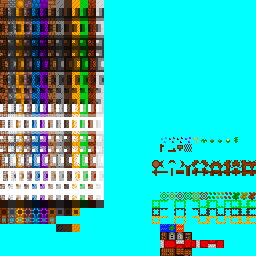
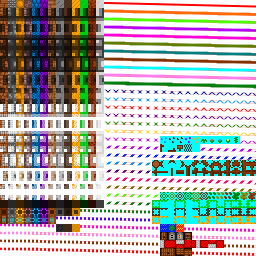
implementing tile variant support - not done

diff --git a/core/include/world/tile.h b/core/include/world/tile.h
@@ -5,68 +5,49 @@
 #include <stdint.h>
 #include <defines.h>
 
-void init_tile(Tile *tile, enum Tile_Kind kind_of_tile,
+void init_tile(Tile *tile, 
+        enum Tile_Kind kind_of_tile,
+        enum Tile_Cover_Kind kind_of_tile_cover,
         uint8_t flags);
 
-void init_tile_structure(Tile *tile, 
-        enum Tile_Kind kind_of_tile,
-        enum Tile_Structure_Kind kind_of_tile_structure);
+static void inline set_tile__stair_direction(
+        Tile *tile,
+        uint8_t direction) {
+    tile->flags &= ~TILE_FLAGS__MASK_STAIR_VALUE;
+    tile->flags |=
+        direction & TILE_FLAGS__MASK_STAIR_VALUE
+        ;
+}
 
 static bool inline is_tile__passable(Tile *tile) {
     return (bool)(tile->flags & TILE_FLAGS__BIT_IS_PASSABLE);
 }
 static void inline set_tile__is_passable(Tile *tile, bool value) {
-    tile->flags &= (-1) ^ (value << TILE_FLAGS__BIT_SHIFT_IS_PASSABLE);
+    tile->flags |= (-1) & (value << TILE_FLAGS__BIT_SHIFT_IS_PASSABLE);
 }
 static bool inline is_tile__stairs(Tile *tile) {
-    return (bool)(tile->flags & TILE_FLAGS__BIT_IS_STAIR);
+    return (bool)((tile->flags & TILE_FLAGS__BIT_IS_STAIR));
 }
 static void inline set_tile__is_stairs(Tile *tile, bool value) {
-    tile->flags &= (-1) ^ (value << TILE_FLAGS__BIT_SHIFT_IS_STAIR);
+    tile->flags |= (-1) & (value << TILE_FLAGS__BIT_SHIFT_IS_STAIR);
 }
 static bool inline is_tile__sight_blocking(Tile *tile) {
     return (bool)(tile->flags & TILE_FLAGS__BIT_IS_SIGHT_BLOCKING); 
 }
 static void inline set_tile__sight_blocking(Tile *tile, bool value) {
-    tile->flags &= (-1) ^ (value << TILE_FLAGS__BIT_SHIFT_IS_SIGHT_BLOCKING);
+    tile->flags |= (-1) & (value << TILE_FLAGS__BIT_SHIFT_IS_SIGHT_BLOCKING);
 }
 static bool inline is_tile__inverted_stairs(Tile *tile) {
     return (bool)(tile->flags & TILE_FLAGS__BIT_INVERTED_STAIR);
 }
 static void inline set_tile__inverted_stairs(Tile *tile, bool value) {
-    tile->flags &= (-1) ^ (value << TILE_FLAGS__BIT_SHIFT_INVERTED_STAIR);
+    tile->flags |= (-1) & (value << TILE_FLAGS__BIT_SHIFT_INVERTED_STAIR);
 }
 static bool inline is_tile__up_or_down_stairs(Tile *tile) {
     return (bool)(tile->flags & TILE_FLAGS__BIT_IS_STAIR_UP_OR_DOWN);
 }
 static void inline set_tile__up_or_down_stairs(Tile *tile, bool value) {
-    tile->flags &= (-1) ^ (value << TILE_FLAGS__BIT_SHIFT_IS_STAIR_UP_OR_DOWN);
-}
-
-static bool inline is_tile_structure_kind__passable(
-        enum Tile_Structure_Kind kind_of_tile_structure) {
-    switch (kind_of_tile_structure) {
-        default:
-            return true;
-        case Tile_Structure_Kind__Wall:
-        case Tile_Structure_Kind__Window:
-            return false;
-    }
-}
-
-static bool inline is_tile_structure_kind__sight_blocking(
-        enum Tile_Structure_Kind kind_of_tile_structure) {
-    return kind_of_tile_structure == Tile_Structure_Kind__Wall;
-}
-
-static bool inline is_tile_kind__ascending(
-        enum Tile_Structure_Kind kind_of_tile_structure) {
-    return kind_of_tile_structure == Tile_Structure_Kind__Stair_Ascending;
-}
-
-static bool inline is_tile_kind__descending(
-        enum Tile_Structure_Kind kind_of_tile_structure) {
-    return kind_of_tile_structure == Tile_Structure_Kind__Stair_Descending;
+    tile->flags |= (-1) & (value << TILE_FLAGS__BIT_SHIFT_IS_STAIR_UP_OR_DOWN);
 }
 
 uint32_t get_tile_texture_sheet_index(Tile *tile);

diff --git a/core/source/world/tile.c b/core/source/world/tile.c
@@ -1,30 +1,15 @@
 #include <world/tile.h>
 #include <stdbool.h>
 
-void init_tile(Tile *tile, enum Tile_Kind kind_of_tile,
+void init_tile(Tile *tile, 
+        enum Tile_Kind kind_of_tile,
+        enum Tile_Cover_Kind kind_of_tile_cover,
         uint8_t flags) {
     tile->flags = flags;
     tile->the_kind_of_tile__this_tile_is =
         kind_of_tile;
     tile->the_kind_of_tile_cover__this_tile_has =
-        Tile_Cover_Kind__None;
-}
-
-void init_tile_structure(Tile *tile, 
-        enum Tile_Kind kind_of_tile,
-        enum Tile_Structure_Kind kind_of_tile_structure) {
-    init_tile(tile, kind_of_tile, TILE_FLAGS__NONE);
-    set_tile__is_passable(
-            tile, 
-            is_tile_structure_kind__passable(
-                kind_of_tile_structure)
-            );
-    set_tile__sight_blocking(
-            tile, 
-            is_tile_structure_kind__sight_blocking(
-                kind_of_tile_structure)
-            );
-    //TODO: finish this
+        kind_of_tile_cover;
 }
 
 uint32_t get_tile_texture_sheet_index(Tile *tile) {
@@ -87,12 +72,42 @@ tile_structure:
             index = TILE_SHEET_INDEX__GRASS;
 			break;
     }
-    switch (tile->the_kind_of_tile_structure__this_tile_is) {
-        default:
-        case Tile_Structure_Kind__Floor:
-            return index;
-        case Tile_Structure_Kind__Stair_Ascending:
-            return 0;
+    if (is_tile__stairs(tile)) {
+        // This is based on how we layout the tile sheet.
+        // If we're descending, then we don't need an
+        // offset.
+        // If we are ascending, we need to offset such that
+        // we pass the rows which include the descending
+        // tiles. This also included the inverted descending
+        // tile variants (example: North-East normal, North-East inverted.)
+        int32_t offset = 0;
+        //     (is_tile__up_or_down_stairs(tile))
+        //     ? TILE_SHEET_ELEMENT_WIDTH
+        //         * (TILE_STAIR_DIRECTION_COUNT
+        //         + TILE_STAIR_DIRECTION_COUNT / 2)
+        //     : 0
+        //     ;
+        if (is_tile__inverted_stairs(tile)) {
+            // offset +=
+            //     TILE_SHEET_ELEMENT_WIDTH
+            //     * TILE_STAIR_DIRECTION_COUNT
+            //     ;
+            // offset +=
+            //     (tile->flags
+            //      & TILE_FLAGS__MASK_STAIR_VALUE) / 2
+            //     * TILE_SHEET_ELEMENT_WIDTH
+            //     ;
+        } else {
+            offset += 128;
+            // offset +=
+            //     ((tile->flags
+            //      & TILE_FLAGS__MASK_STAIR_VALUE) + 1)
+            //     * TILE_SHEET_ELEMENT_WIDTH
+            //     ;
+        }
+
+        return index + offset;
     }
+    return index;
 }
 

diff --git a/core/include/defines.h b/core/include/defines.h
@@ -363,6 +363,8 @@ typedef void (*m_unload_scene)(Scene *this_scene, Game* game);
 #define TILE_FLAGS__BIT_SHIFT_IS_SIGHT_BLOCKING 6
 #define TILE_FLAGS__BIT_SHIFT_IS_PASSABLE 7
 
+#define TILE_STAIR_DIRECTION_COUNT 8
+
 #define TILE_FLAGS__MASK_STAIR_VALUE ((1<<\
             TILE_FLAGS__BIT_SHIFT_INVERTED_STAIR) - 1)
 #define TILE_FLAGS__BIT_INVERTED_STAIR (1<<\
@@ -377,6 +379,8 @@ typedef void (*m_unload_scene)(Scene *this_scene, Game* game);
         TILE_FLAGS__BIT_SHIFT_IS_PASSABLE)
 
 #define TILE_FLAGS__NONE 0
+
+#define TILE_SHEET_ELEMENT_WIDTH 32
 
 #define TILE_SHEET_INDEX__WOOD 0
 #define TILE_SHEET_INDEX__STONE_BRICK 1
@@ -422,15 +426,6 @@ enum Tile_Cover_Kind {
     Tile_Cover_Kind__Leaf_Clutter,
 };
 
-enum Tile_Structure_Kind {
-    Tile_Structure_Kind__None,
-    Tile_Structure_Kind__Floor,
-    Tile_Structure_Kind__Stair_Ascending,
-    Tile_Structure_Kind__Stair_Descending,
-    Tile_Structure_Kind__Wall,
-    Tile_Structure_Kind__Window,
-};
-
 ///
 /// INPUT
 ///
@@ -455,13 +450,9 @@ typedef struct Input_t {
 
 typedef struct Tile_t {
     enum Tile_Kind                  the_kind_of_tile__this_tile_is;
-    union {
-        enum Tile_Cover_Kind        the_kind_of_tile_cover__this_tile_has;
-        enum Tile_Structure_Kind    the_kind_of_tile_structure__this_tile_is;
-        union {
-            Direction               direction_of_structure;
-        };
-    };
+    enum Tile_Cover_Kind        the_kind_of_tile_cover__this_tile_has;
+    //TODO: this structure is not padding friendly.
+    // consider making flags 16 bit
     uint8_t flags;
     // bits 1 2 3, stair direction (values 0-7)
     // bit 4, is the stair inverted

diff --git a/core/source/world/generators/generator_flat_world.c b/core/source/world/generators/generator_flat_world.c
@@ -4,6 +4,8 @@
 
 #include <debug/debug.h>
 
+#include <world/tile.h>
+
 typedef struct Local_Parameters_t {
     uint32_t random__result__greater;
     uint32_t random__result__local;
@@ -430,6 +432,8 @@ void chunk_generator__flat_world_f(
                 case 0:
                     tile->the_kind_of_tile__this_tile_is =
                         Tile_Kind__Sand;
+                    set_tile__is_stairs(tile, true);
+                    set_tile__stair_direction(tile, 2);
                     break;
                 case 1:
                     tile->the_kind_of_tile__this_tile_is =

diff --git a/core/source/game.c b/core/source/game.c
@@ -17,6 +17,9 @@
 #include <collisions/hitbox_aabb.h>
 #include <collisions/collision_manager.h>
 
+#include <world/chunk.h>
+#include <world/tile.h>
+
 void init_game(Game *game) {
     PLATFORM_init_gfx_context(&game->gfx_context);
     //TODO: start with a main menu.
@@ -34,6 +37,7 @@ void init_game(Game *game) {
             &game->world.world_params, 
             DIRECTION__NORTH,
             2);
+
     PLATFORM_update_chunks(
             &game->gfx_context,
             &game->world.chunk_manager);
